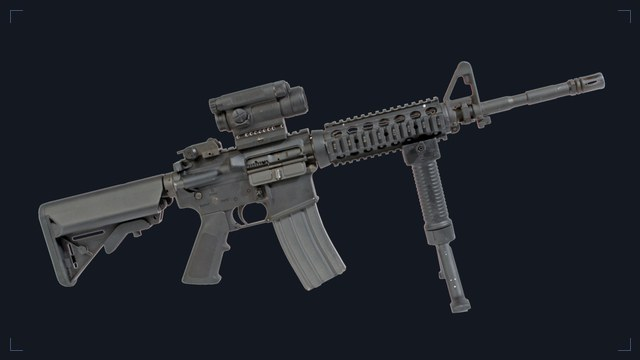
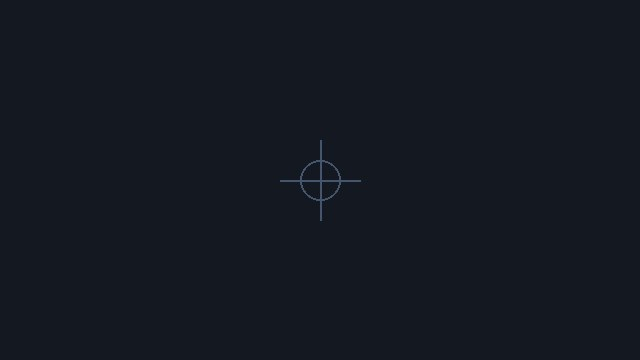
Fix weapon image IDs: Add 17 missing authentic weapon photographs and link all 24 cards directly to their unique real firearm images

Changed region(s): [[0.0625, 0.1528, 0.9688, 0.8861]]

diff --git a/app.js b/app.js
@@ -8,7 +8,7 @@
 const cheatsData = [
   {
     id: "cash-250-000",
-    title: "$250,000 Liquid Currency",
+        title: "$250,000 Liquid Currency",
     category: "money",
     desc: "Instantly gives you $250,000",
     unlock: "Make $250,000 from fenced goods",
@@ -3506,6 +3506,7 @@ function triggerToast(msg) {
 const weaponsDatabase = [
   {
     id: "klose-k17",
+    image: "/assets/weapons/klose-k17.jpg",
     name: "Klose K17",
     category: "handguns",
     catLabel: "Handgun",
@@ -3524,6 +3525,7 @@ const weaponsDatabase = [
   },
   {
     id: "girardi-es9",
+    image: "/assets/weapons/girardi-es9.jpg",
     name: "Girardi ES9",
     category: "handguns",
     catLabel: "Handgun",
@@ -3542,6 +3544,7 @@ const weaponsDatabase = [
   },
   {
     id: "duke-mustang-357",
+    image: "/assets/weapons/duke-mustang-357.jpg",
     name: "Duke Mustang .357",
     category: "handguns",
     catLabel: "Revolver",
@@ -3560,6 +3563,7 @@ const weaponsDatabase = [
   },
   {
     id: "hawk-little-morgan",
+    image: "/assets/weapons/hawk-little-morgan.jpg",
     name: "Hawk & Little Morgan",
     category: "handguns",
     catLabel: "Heavy Revolver",
@@ -3578,6 +3582,7 @@ const weaponsDatabase = [
   },
   {
     id: "coil-shocker",
+    image: "/assets/weapons/coil-shocker.jpg",
     name: "Coil Shocker",
     category: "handguns",
     catLabel: "Non-Lethal",
@@ -3596,6 +3601,7 @@ const weaponsDatabase = [
   },
   {
     id: "vom-feuer-vf5",
+    image: "/assets/weapons/vom-feuer-vf5.jpg",
     name: "Vom Feuer VF5",
     category: "smgs",
     catLabel: "Submachine Gun",
@@ -3614,6 +3620,7 @@ const weaponsDatabase = [
   },
   {
     id: "wortham-w10",
+    image: "/assets/weapons/wortham-w10.jpg",
     name: "Wortham W-10",
     category: "smgs",
     catLabel: "Machine Pistol",
@@ -3632,6 +3639,7 @@ const weaponsDatabase = [
   },
   {
     id: "adb-pd90",
+    image: "/assets/weapons/adb-pd90.jpg",
     name: "ADB PD-90",
     category: "smgs",
     catLabel: "Bullpup PDW",
@@ -3650,6 +3658,7 @@ const weaponsDatabase = [
   },
   {
     id: "duke-556",
+    image: "/assets/weapons/duke-556.jpg",
     name: "Duke 556 Carbine",
     category: "rifles",
     catLabel: "Assault Rifle",
@@ -3668,6 +3677,7 @@ const weaponsDatabase = [
   },
   {
     id: "kozlov-kz59",
+    image: "/assets/weapons/kozlov-kz59.jpg",
     name: "Kozlov KZ-59",
     category: "rifles",
     catLabel: "Assault Rifle",
@@ -3686,6 +3696,7 @@ const weaponsDatabase = [
   },
   {
     id: "adb-fra",
+    image: "/assets/weapons/adb-fra.jpg",
     name: "ADB FRA Tactical",
     category: "rifles",
     catLabel: "Combat Rifle",
@@ -3704,6 +3715,7 @@ const weaponsDatabase = [
   },
   {
     id: "fortune-moreland-850",
+    image: "/assets/weapons/fortune-moreland-850.jpg",
     name: "Moreland 850",
     category: "shotguns",
     catLabel: "Pump Shotgun",
@@ -3722,6 +3734,7 @@ const weaponsDatabase = [
   },
   {
     id: "girardi-az1200",
+    image: "/assets/weapons/girardi-az1200.jpg",
     name: "Girardi AZ1200",
     category: "shotguns",
     catLabel: "Combat Shotgun",
@@ -3740,6 +3753,7 @@ const weaponsDatabase = [
   },
   {
     id: "goodwin-comshot-12",
+    image: "/assets/weapons/goodwin-comshot-12.jpg",
     name: "Goodwin Comshot 12",
     category: "shotguns",
     catLabel: "Sawed-Off Shotgun",
@@ -3758,6 +3772,7 @@ const weaponsDatabase = [
   },
   {
     id: "fairview-ff50",
+    image: "/assets/weapons/fairview-ff50.jpg",
     name: "Fairview FF-50 Anti-Materiel",
     category: "snipers",
     catLabel: "Heavy Sniper",
@@ -3776,6 +3791,7 @@ const weaponsDatabase = [
   },
   {
     id: "wortham-w22",
+    image: "/assets/weapons/wortham-w22.jpg",
     name: "Wortham W-22 Marksman",
     category: "snipers",
     catLabel: "Marksman Rifle",
@@ -3794,6 +3810,7 @@ const weaponsDatabase = [
   },
   {
     id: "goodwin-lmg6",
+    image: "/assets/weapons/goodwin-lmg6.jpg",
     name: "Goodwin LMG 6",
     category: "heavy",
     catLabel: "Squad LMG",
@@ -3812,6 +3829,7 @@ const weaponsDatabase = [
   },
   {
     id: "hillinger-boomer",
+    image: "/assets/weapons/hillinger-boomer.jpg",
     name: "Hillinger Boomer RPG",
     category: "heavy",
     catLabel: "Rocket Launcher",
@@ -3830,6 +3848,7 @@ const weaponsDatabase = [
   },
   {
     id: "deever-glr40",
+    image: "/assets/weapons/deever-glr40.jpg",
     name: "Deever Tech GLR40",
     category: "heavy",
     catLabel: "Grenade Launcher",
@@ -3848,6 +3867,7 @@ const weaponsDatabase = [
   },
   {
     id: "arras-bullhead",
+    image: "/assets/weapons/arras-bullhead.jpg",
     name: "Arras Bullhead Speargun",
     category: "heavy",
     catLabel: "Harpoon / Stealth",
@@ -3866,6 +3886,7 @@ const weaponsDatabase = [
   },
   {
     id: "combat-knife",
+    image: "/assets/weapons/combat-knife.jpg",
     name: "Serrated Combat Knife",
     category: "melee",
     catLabel: "Melee",
@@ -3884,6 +3905,7 @@ const weaponsDatabase = [
   },
   {
     id: "baseball-bat",
+    image: "/assets/weapons/baseball-bat.jpg",
     name: "Alloy Slugger Bat",
     category: "melee",
     catLabel: "Melee",
@@ -3902,6 +3924,7 @@ const weaponsDatabase = [
   },
   {
     id: "m67-frag-grenade",
+    image: "/assets/weapons/m67-frag-grenade.jpg",
     name: "M67 Frag Grenade",
     category: "throwables",
     catLabel: "Throwable",
@@ -3920,6 +3943,7 @@ const weaponsDatabase = [
   },
   {
     id: "molotov-cocktail",
+    image: "/assets/weapons/molotov-cocktail.jpg",
     name: "Vintage Molotov Cocktail",
     category: "throwables",
     catLabel: "Throwable Incendiary",
